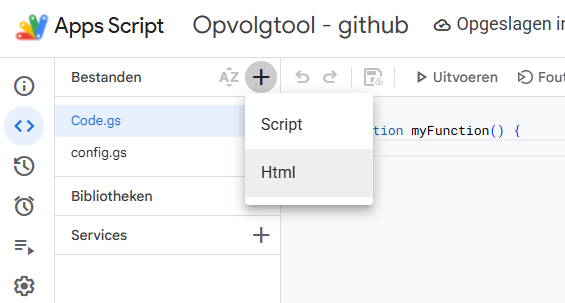
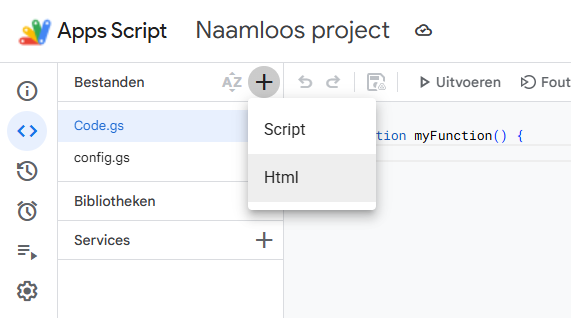
Update README.md to correct file naming instructions and add a new section on file saving. Revised example from 'docent' to 'leerling' for clarity, and included guidance on unsaved files with a new image for visual support.

diff --git a/README.md b/README.md
@@ -148,7 +148,7 @@ De codebestanden staan **bovenaan deze GitHub-pagina**, in de lijst boven deze h
 
 ![Nieuw HTML-bestand aanmaken](img/gas-html.png)
 
-4. Typ alleen de naam, **zonder** `.gs` of `.html`. Die uitgang verschijnt vanzelf. Dus `Config`, niet `Config.gs`. En `docent`, niet `docent.html`.
+4. Typ alleen de naam, **zonder** `.gs` of `.html`. Die uitgang verschijnt vanzelf. Dus `Config`, niet `Config.gs`. En `leerling`, niet `leerling.html`.
 
 ![Script noemen: alleen Config, zonder .gs](img/gas-script2.png)
 
@@ -158,6 +158,10 @@ De codebestanden staan **bovenaan deze GitHub-pagina**, in de lijst boven deze h
 
    - Script: `Config`, `LeerlingCodes`
    - Html: `docent`, `docent-kern`, `docent-opvolging`, `docent-kruis`, `docent-ui`, `leerling`
+
+6. Staat er een bolletje naast een bestandsnaam, dan is dat bestand nog niet opgeslagen. Druk op **Ctrl+S** tot de bolletjes weg zijn.
+
+![Bolletje naast Code.gs: nog niet opgeslagen](img/gas-save.png)
 
 ---
 
@@ -177,6 +181,8 @@ const TOEGANG_EMAIL_DOCENT = [
 ```
 
 Kleine en hoofdletters maken niet uit. Wie niet in deze lijst staat, krijgt het docentscherm niet te zien, ook niet via de docent-URL.
+
+Via deze weg kunnen leraren met die e-mailadressen aan de opvolgtool (frontend), maar diezelfde e-mailadressen moeten ook toegevoegd zijn aan de google sheet (backend) om aanpassingen te kunnen maken.
 
 ---
 
